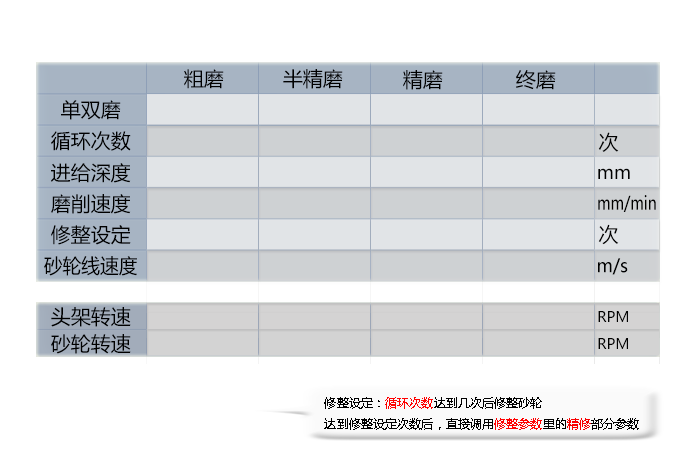
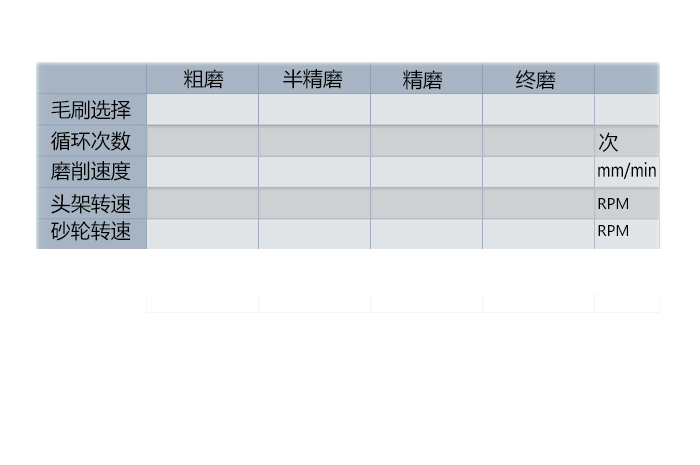
update

diff --git a/Parameter_Index.md b/Parameter_Index.md
@@ -217,8 +217,8 @@
 |INI[9]|TOTAL_ANGLE|磨削总角度
 |INI[10]|OPER_X|外螺纹时表示对刀起始位置的X值(内螺纹时为砂轮中心与头架中心重合时的X坐标)
 |INI[11]|滚压轮修整中反向距离
-|INI[12]|前毛刷选择(0/1/2)
-|INI[13]|后毛刷选择(0/1/2)
+|INI[12]|毛刷选择(0/1/2)
+|INI[13]|
 |INI[14]|TAPER_VALUE|单位长度锥度值(半径方向)，内螺纹大头往小头磨,外螺纹小头往大头磨
 |INI[15]|dx|锥度对应的全长X增量(半径方向)
 |INI[16]|helix_angle_enable|螺旋升角使能
@@ -368,6 +368,9 @@
 |INI[160]||当前后毛刷位置
 |INI[161]||当前毛刷位置
 |INI[162]||当前毛刷选择缓存
+|INI[163]||当前毛刷已加工多少件
+|INI[164]||多少件后换毛刷
+|INI[165]||毛刷重新复位
 |||
 |**对刀(TOOL_SET)**||
 |TOOL_SET[0]|RANDOM_POS|初始对刀点Z轴坐标
